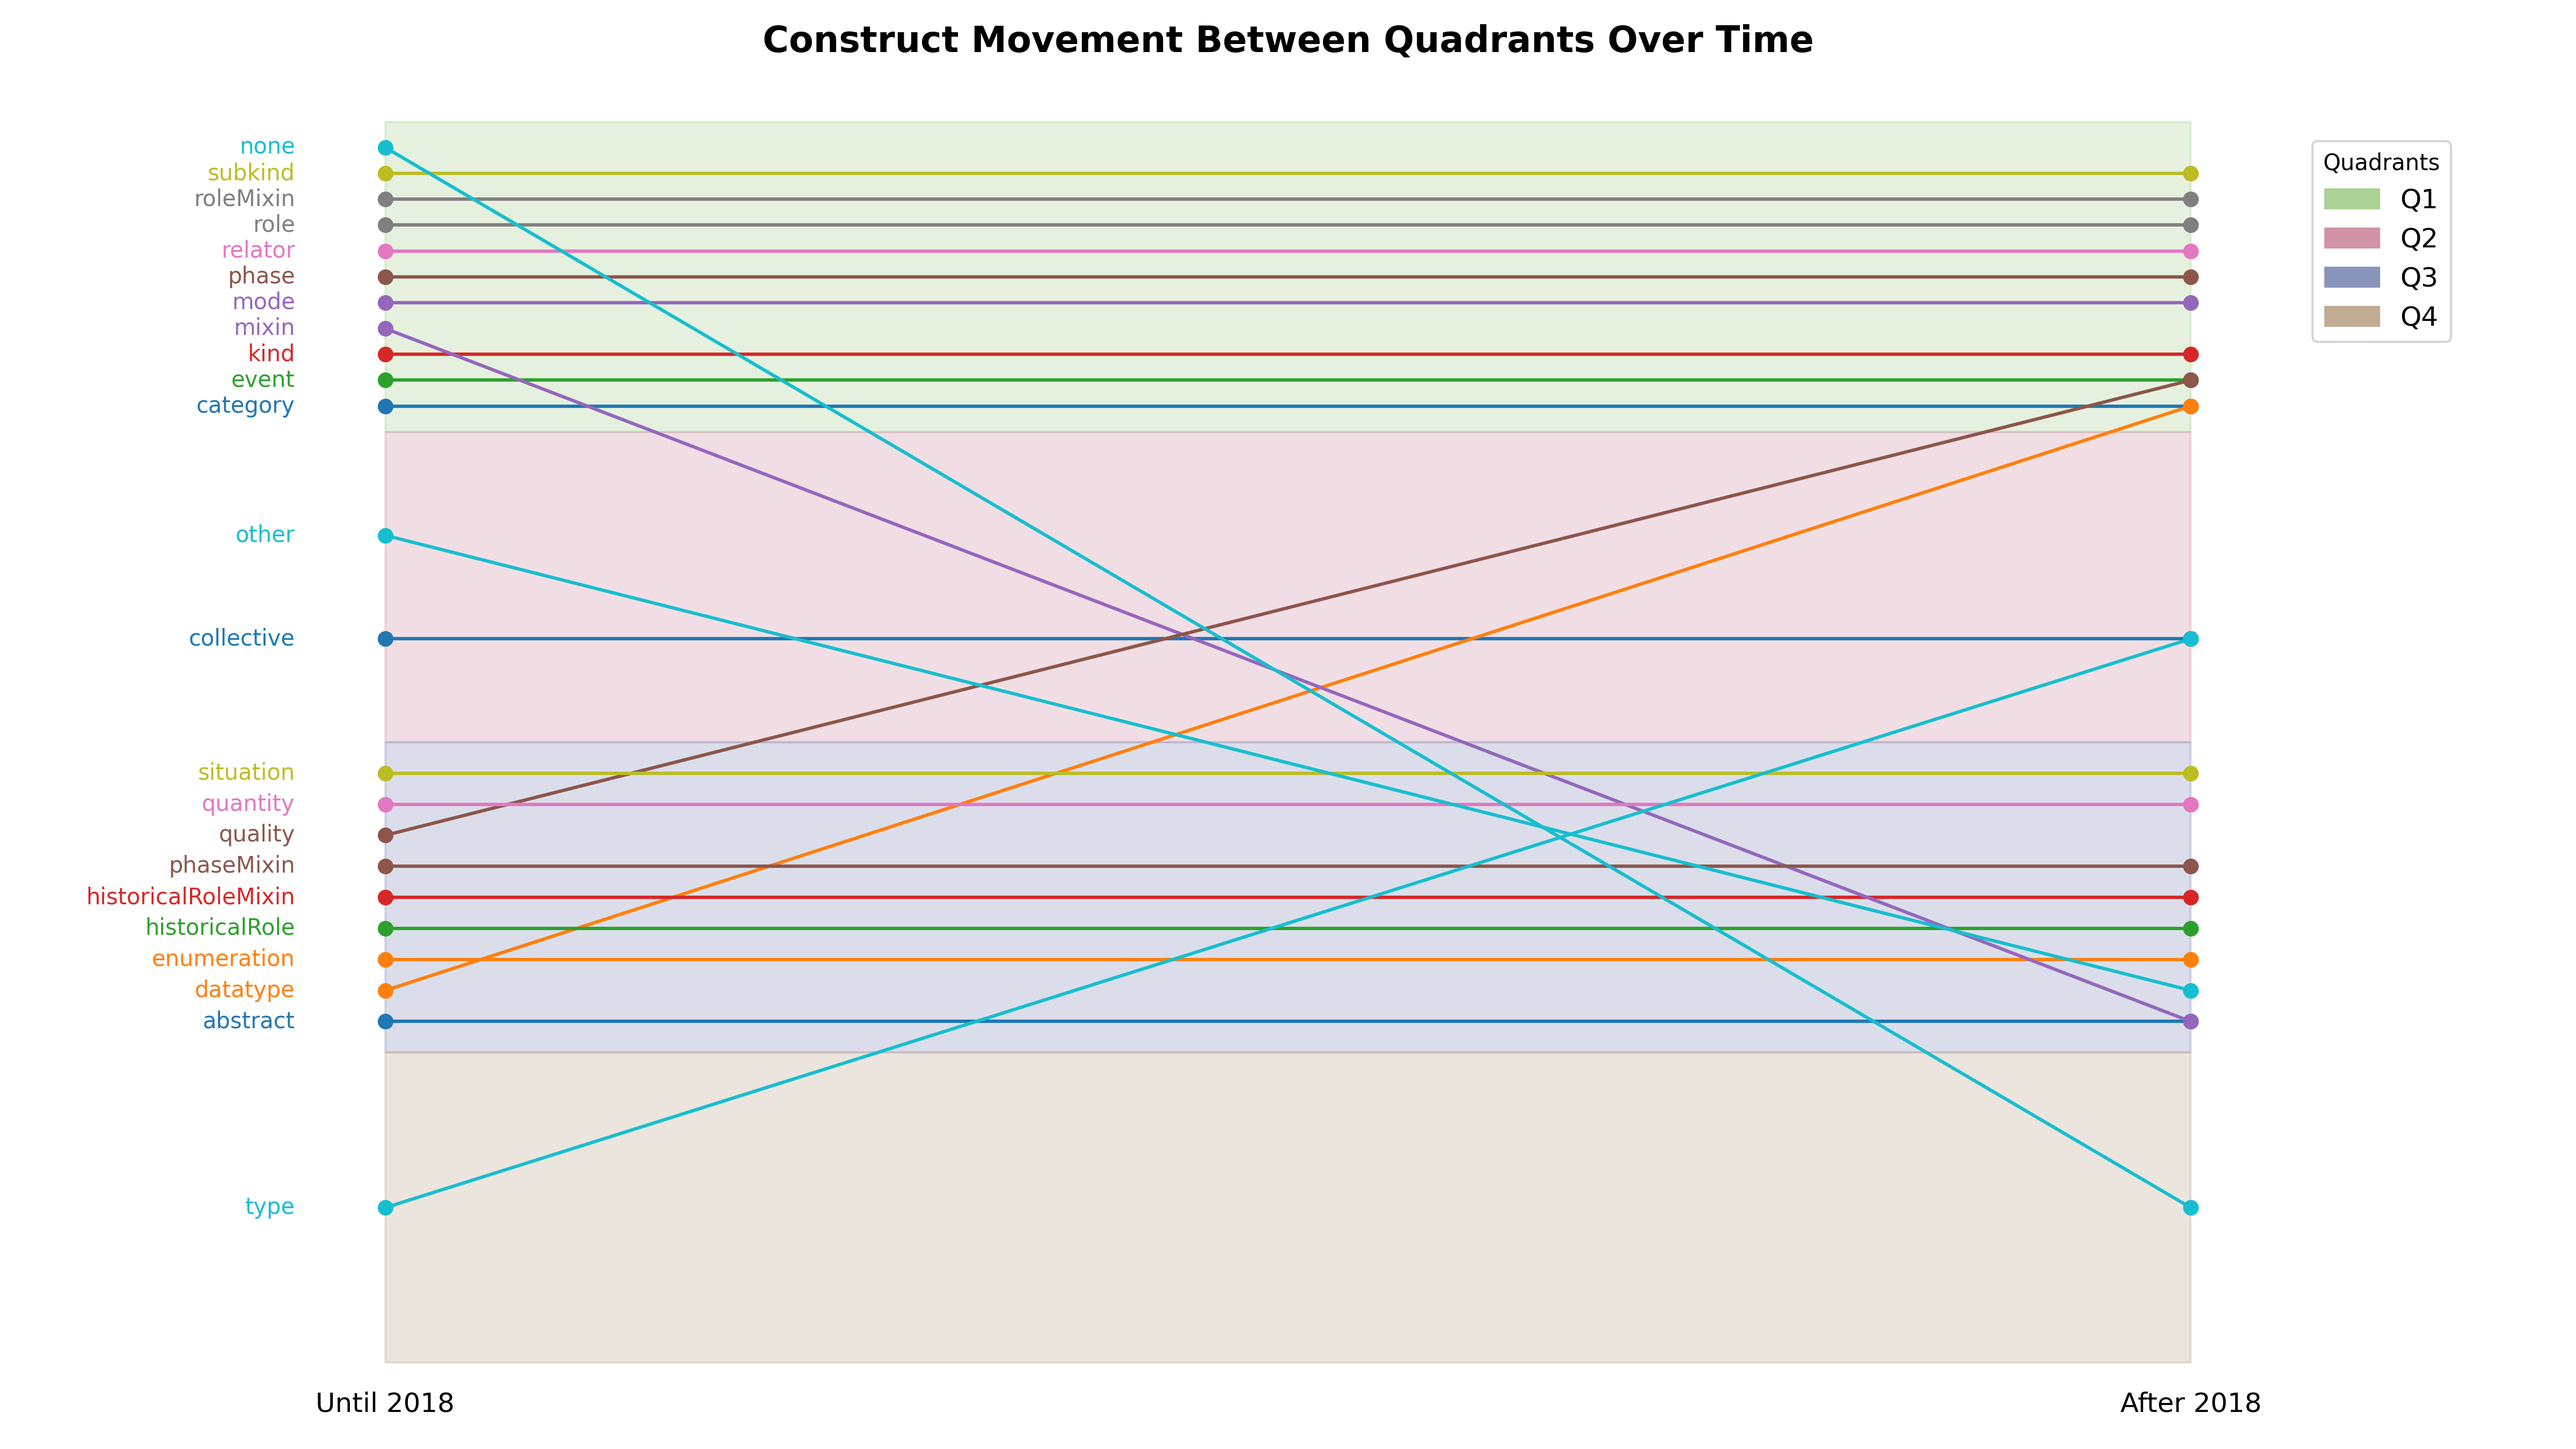
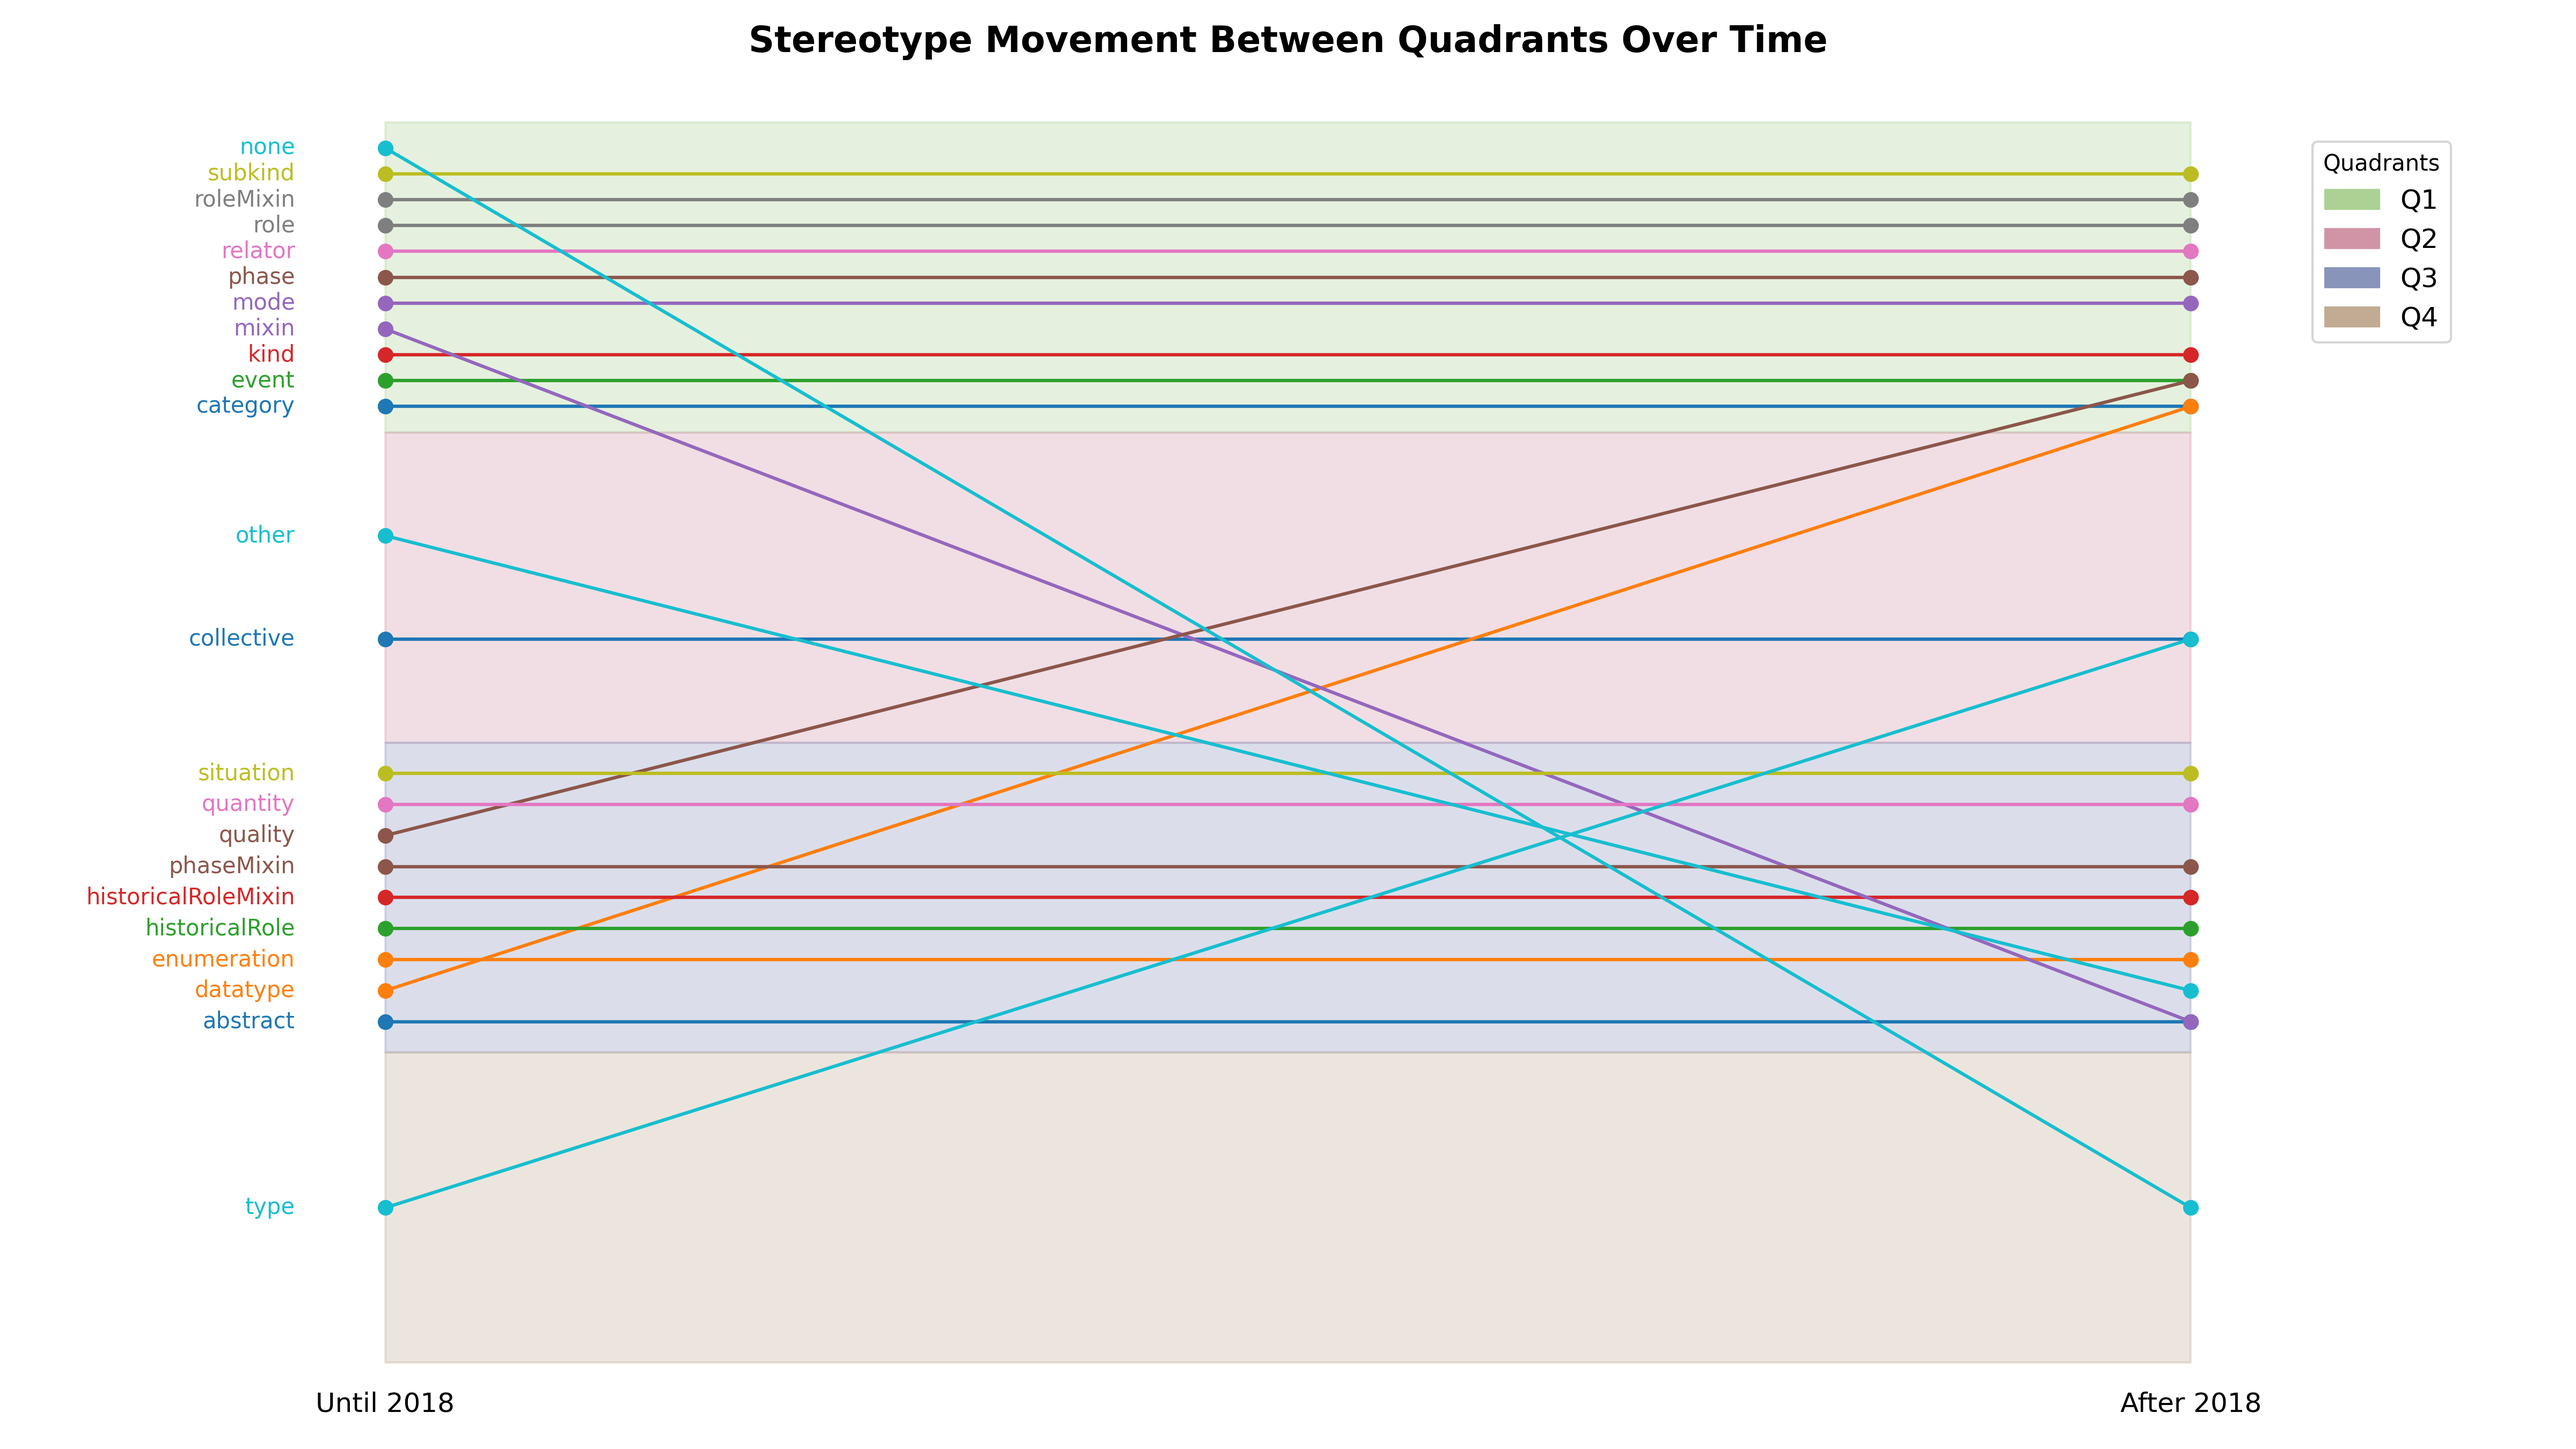
Movement visualizations re-generated.

Changed region(s): [[0.2812, 0.0, 0.7188, 0.0622]]

diff --git a/src/visualization/movement_analysis.py b/src/visualization/movement_analysis.py
@@ -9,10 +9,12 @@ import seaborn as sns
 from adjustText import adjust_text
 from loguru import logger
 
+from src.utils import format_metric_name
 
-def plot_custom_quadrant_flow_chart(results_df, out_dir_path):
+
+def plot_custom_quadrant_flow_chart(results_df, out_dir_path, first_column_name):
     # Data setup from your DataFrame
-    stereotypes = results_df['stereotype']  # Stereotype labels (first column)
+    stereotypes = results_df[first_column_name]  # Dynamically use the first column name
     quadrant_start = results_df['quadrant_start']  # Start quadrants (A)
     quadrant_end = results_df['quadrant_end']  # End quadrants (B)
 
@@ -132,7 +134,7 @@ def plot_custom_quadrant_flow_chart(results_df, out_dir_path):
     plt.close(fig)
 
 
-def calculate_quadrants(df_A, df_B, x_metric, y_metric, out_dir_path):
+def calculate_quadrants(df_A, df_B, x_metric, y_metric, out_dir_path, first_column_name):
     # Calculate median values for moment A
     median_y_A = df_A[y_metric].median()
     median_x_A = df_A[x_metric].median()
@@ -156,9 +158,9 @@ def calculate_quadrants(df_A, df_B, x_metric, y_metric, out_dir_path):
     results = []
 
     # Iterate over each stereotype and determine its quadrant in A and B
-    for stereotype in df_A['Stereotype'].unique():
-        subset_A = df_A[df_A['Stereotype'] == stereotype]
-        subset_B = df_B[df_B['Stereotype'] == stereotype]
+    for stereotype in df_A[first_column_name].unique():
+        subset_A = df_A[df_A[first_column_name] == stereotype]
+        subset_B = df_B[df_B[first_column_name] == stereotype]
 
         # Get the x and y values for this stereotype in moment A and B
         x_A, y_A = subset_A[x_metric].values[0], subset_A[y_metric].values[0]
@@ -169,7 +171,7 @@ def calculate_quadrants(df_A, df_B, x_metric, y_metric, out_dir_path):
         quadrant_B = get_quadrant(x_B, y_B, median_x_B, median_y_B)
 
         # Append the results as a dictionary
-        results.append({'stereotype': stereotype, 'quadrant_start': quadrant_A, 'quadrant_end': quadrant_B})
+        results.append({first_column_name: stereotype, 'quadrant_start': quadrant_A, 'quadrant_end': quadrant_B})
 
     # Convert results to DataFrame
     results_df = pd.DataFrame(results)
@@ -181,34 +183,29 @@ def calculate_quadrants(df_A, df_B, x_metric, y_metric, out_dir_path):
     logger.success(f"Quadrant analysis saved to {output_file}.")
 
     # Call plot with the results DataFrame, not the file path
-    plot_custom_quadrant_flow_chart(results_df, out_dir_path)
+    plot_custom_quadrant_flow_chart(results_df, out_dir_path, first_column_name)
 
 
-def execute_visualization_movement(path_file_A, path_file_B, out_dir_path):
+def execute_visualization_movement(path_file_A, path_file_B, out_dir_path, plot_medians=True):
     # Create the directory to save if it does not exist
     if not os.path.exists(out_dir_path):
         os.makedirs(out_dir_path)
-        logger.success(f"Created directory: {out_dir_path}")
-    else:
-        logger.info(f"Directory already exists: {out_dir_path}")
 
     # Load data from moment A and moment B using the provided file paths
     df_A = pd.read_csv(path_file_A)
     df_B = pd.read_csv(path_file_B)
 
-    if "_t_" in path_file_A:
-        # Drop rows where the 'Stereotype' column has values 'none', 'other', or 'undef'
-        df_A = df_A[~df_A['Stereotype'].isin(['none', 'other', 'undef'])]
-        df_B = df_B[~df_B['Stereotype'].isin(['none', 'other', 'undef'])]
+    # Get the first column name dynamically
+    first_column_name = df_A.columns[0]
 
-    # Check if both dataframes have the same stereotypes and columns
-    assert all(df_A['Stereotype'] == df_B['Stereotype']), "The stereotypes in both moments must match."
+    # Check if both dataframes have the same values in the first column
+    assert all(df_A[first_column_name] == df_B[first_column_name]), "The values in the first column must match."
 
-    # Convert 'Stereotype' column to categorical type for proper ordering
-    df_A['Stereotype'] = pd.Categorical(df_A['Stereotype'], categories=df_A['Stereotype'].unique(), ordered=True)
-    df_B['Stereotype'] = pd.Categorical(df_B['Stereotype'], categories=df_B['Stereotype'].unique(), ordered=True)
+    # Convert the first column to categorical type for proper ordering
+    df_A[first_column_name] = pd.Categorical(df_A[first_column_name], categories=df_A[first_column_name].unique(), ordered=True)
+    df_B[first_column_name] = pd.Categorical(df_B[first_column_name], categories=df_B[first_column_name].unique(), ordered=True)
 
-    # Get all numeric columns (excluding 'Stereotype')
+    # Get all numeric columns (excluding the first column)
     numeric_columns = df_A.select_dtypes(include='number').columns
 
     # Generate all unique combinations of two metrics for scatter plots
@@ -220,9 +217,9 @@ def execute_visualization_movement(path_file_A, path_file_B, out_dir_path):
 
         texts = []
         # Plot both moments A and B and draw arrows between the points
-        for i, stereotype in enumerate(df_A['Stereotype'].unique()):
-            subset_A = df_A[df_A['Stereotype'] == stereotype]
-            subset_B = df_B[df_B['Stereotype'] == stereotype]
+        for i, stereotype in enumerate(df_A[first_column_name].unique()):
+            subset_A = df_A[df_A[first_column_name] == stereotype]
+            subset_B = df_B[df_B[first_column_name] == stereotype]
 
             # Plot moment A (start point)
             ax.scatter(subset_A[x_metric], subset_A[y_metric], color=extended_palette[i], marker='o', s=100,
@@ -242,11 +239,11 @@ def execute_visualization_movement(path_file_A, path_file_B, out_dir_path):
                         xytext=(subset_A[x_metric].values[0], subset_A[y_metric].values[0]),  # starts at A
                         arrowprops=dict(arrowstyle="-|>", color=extended_palette[i], lw=1.0))
 
-            # Add label next to the start point
-            text = ax.text(subset_A[x_metric].values[0], subset_A[y_metric].values[0], stereotype, fontsize=8,
-                           color='black', ha='left', va='top')
-            texts.append(text)
+            # Add label next to the **end point**
+            text = ax.text(subset_B[x_metric].values[0], subset_B[y_metric].values[0], stereotype, fontsize=8,
+                           color='black', ha='right', va='top')
 
+            texts.append(text)
         # Adjust text to avoid overlap
         adjust_text(texts)
 
@@ -256,39 +253,41 @@ def execute_visualization_movement(path_file_A, path_file_B, out_dir_path):
         ax.set_title(f'Movement of {x_metric.replace("_", " ").title()} vs. {y_metric.replace("_", " ").title()}',
                      fontweight='bold')
 
-        # Calculate median values for moment A
-        median_y_A = df_A[y_metric].median()
-        median_x_A = df_A[x_metric].median()
+        if plot_medians:
 
-        # Calculate median values for moment B
-        median_y_B = df_B[y_metric].median()
-        median_x_B = df_B[x_metric].median()
+            # Calculate median values for moment A
+            median_y_A = df_A[y_metric].median()
+            median_x_A = df_A[x_metric].median()
 
-        # Plot median lines for moment A (light red)
-        ax.axhline(y=median_y_A, color='lightcoral', linestyle='--', linewidth=1, label=f'Median {y_metric} (A)')
-        ax.axvline(x=median_x_A, color='lightcoral', linestyle='--', linewidth=1, label=f'Median {x_metric} (A)')
+            # Calculate median values for moment B
+            median_y_B = df_B[y_metric].median()
+            median_x_B = df_B[x_metric].median()
 
-        # Plot median lines for moment B (light blue)
-        ax.axhline(y=median_y_B, color='lightblue', linestyle='--', linewidth=1, label=f'Median {y_metric} (B)')
-        ax.axvline(x=median_x_B, color='lightblue', linestyle='--', linewidth=1, label=f'Median {x_metric} (B)')
+            # Plot median lines for moment A (light red)
+            ax.axhline(y=median_y_A, color='lightcoral', linestyle='--', linewidth=1, label=f'Median {y_metric} (A)')
+            ax.axvline(x=median_x_A, color='lightcoral', linestyle='--', linewidth=1, label=f'Median {x_metric} (A)')
 
-        # Optionally add text for the median values
-        ax.text(df_B[x_metric].max(), median_y_B, f'median B: {median_y_B:.2f}', color='lightblue', fontsize=10,
-                ha='right', va='bottom')
-        ax.text(df_A[x_metric].max(), median_y_A, f'median A: {median_y_A:.2f}', color='lightcoral', fontsize=10,
-                ha='right', va='bottom')
+            # Plot median lines for moment B (light blue)
+            ax.axhline(y=median_y_B, color='#7c93e0', linestyle='--', linewidth=1, label=f'Median {y_metric} (B)')
+            ax.axvline(x=median_x_B, color='#7c93e0', linestyle='--', linewidth=1, label=f'Median {x_metric} (B)')
 
-        ax.text(median_x_B, df_B[y_metric].max(), f'median B: {median_x_B:.2f}', color='lightblue', fontsize=10,
-                ha='right', va='top', rotation=90)
-        ax.text(median_x_A, df_A[y_metric].max(), f'median A: {median_x_A:.2f}', color='lightcoral', fontsize=10,
-                ha='right', va='top', rotation=90)
+            # Optionally add text for the median values
+            ax.text(df_B[x_metric].max(), median_y_B, f'median B: {median_y_B:.2f}', color='lightblue', fontsize=10,
+                    ha='right', va='bottom')
+            ax.text(df_A[x_metric].max(), median_y_A, f'median A: {median_y_A:.2f}', color='lightcoral', fontsize=10,
+                    ha='right', va='bottom')
+
+            ax.text(median_x_B, df_B[y_metric].max(), f'median B: {median_x_B:.2f}', color='lightblue', fontsize=10,
+                    ha='right', va='top', rotation=90)
+            ax.text(median_x_A, df_A[y_metric].max(), f'median A: {median_x_A:.2f}', color='lightcoral', fontsize=10,
+                    ha='right', va='top', rotation=90)
 
         # Save figure
-        formatted_x_metric = x_metric.replace('_', ' ').title()
-        formatted_y_metric = y_metric.replace('_', ' ').title()
+        formatted_x_metric = format_metric_name(x_metric)  # Apply formatting to x_metric
+        formatted_y_metric = format_metric_name(y_metric)  # Apply formatting to y_metric
         fig_name = f'movement_analysis_{formatted_x_metric}_vs_{formatted_y_metric}.png'
         fig.savefig(os.path.join(out_dir_path, fig_name), dpi=300)
         logger.success(f"Figure {fig_name} successfully saved in {out_dir_path}.")
         plt.close(fig)
 
-        calculate_quadrants(df_A, df_B, 'Total Frequency', 'Group Frequency', out_dir_path)
+        calculate_quadrants(df_A, df_B, 'Total Frequency', 'Group Frequency', out_dir_path, first_column_name)

diff --git a/main_visualization_movement.py b/main_visualization_movement.py
@@ -1,0 +1,26 @@
+import os
+
+from loguru import logger
+
+from src.visualization.movement_analysis import execute_visualization_movement
+
+if __name__ == "__main__":
+    base_in_dir = "outputs/statistics/"
+    base_out_dir = "outputs/visualizations/"
+    base_mid_dir = "_ontouml_no_classroom_"
+    input_data = "frequency_analysis.csv"
+
+    stereotype_types = ["cs", "rs"]
+    filters = ["t", "f"]
+
+    for stereotype_type in stereotype_types:
+        for filter in filters:
+            analysis = stereotype_type + base_mid_dir + filter
+            input_file_a = os.path.join(base_in_dir, stereotype_type + base_mid_dir + "until_2017_" + filter,
+                                        input_data)
+            input_file_b = os.path.join(base_in_dir, stereotype_type + base_mid_dir + "after_2018_" + filter,
+                                        input_data)
+            output_dir = os.path.join(base_out_dir, analysis, "movement")
+
+            logger.info(f"Generating movement for {analysis}.")
+            execute_visualization_movement(input_file_a, input_file_b, output_dir, plot_medians=True)
